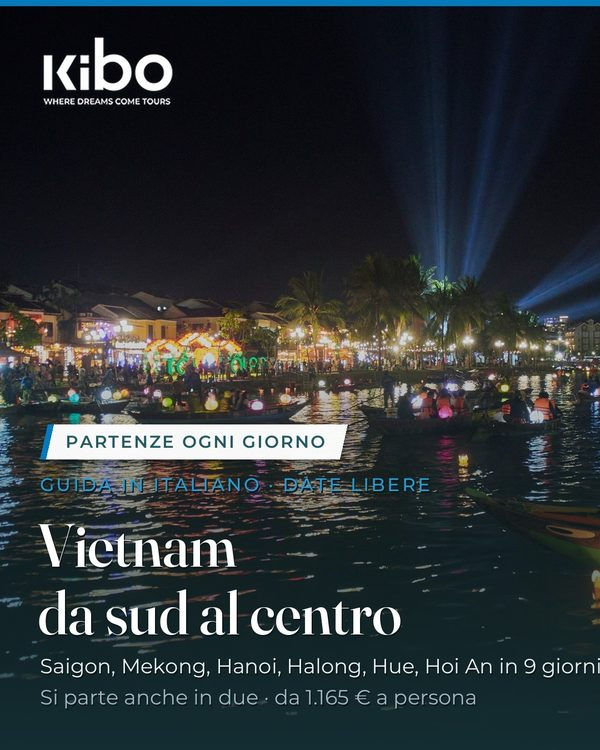
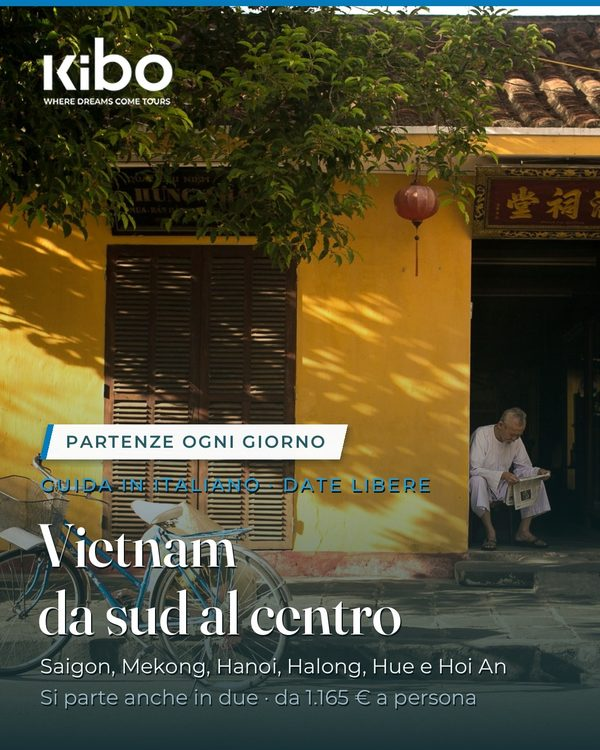
Vietnam sud-centro: hero diurna (casa gialla di Hoi An, Wikimedia Commons CC0) al posto delle lanterne notturne, grafiche social, landing e newsletter del 22/10 rigenerate

diff --git a/scripts/social.py b/scripts/social.py
@@ -201,8 +201,8 @@ VIAGGI = {
         "title": ["Vietnam", "da sud al centro"],
         "info1": "Saigon, Mekong, Hanoi, Halong, Hue e Hoi An",
         "info2": "Si parte anche in due · da 1.165 € a persona",
-        "focus_x": 0.35,
-        "focus_y": 0.5,
+        "focus_x": 0.5,
+        "focus_y": 0.45,
         "ribbon": "PARTENZE OGNI GIORNO",
         "ribbon_style": "evidenza",
         "cta": "",

diff --git a/contenuti/vietnam-sud-centro-2027.social.md b/contenuti/vietnam-sud-centro-2027.social.md
@@ -1,8 +1,8 @@
 # Vietnam da sud al centro — kit social (piano 16 contenuti, n. 24)
 
 > Grafiche: `assets/social/vietnam-sud-centro-2027-post.jpg` (1080×1350) e `-story.jpg` (1080×1920),
-> da generare con `scripts/social.py` dalla hero (le lanterne di Hoi An sul fiume Thu Bon,
-> Wikimedia Commons «Hoi An - HoiAn1441», licenza CC0) dopo l'inserimento della voce `vietnam-sud-centro-2027` nel dizionario `VIAGGI`.
+> da generare con `scripts/social.py` dalla hero (una casa gialla di Hoi An con bicicletta e
+> lanterne, Wikimedia Commons «Tiệm153+xeĐạp&cây», licenza CC0; scelta chiara del 20/10) dopo l'inserimento della voce `vietnam-sud-centro-2027` nel dizionario `VIAGGI`.
 > **Nessuna pubblicazione senza approvazione di Roberto** (tabella `Contenuti Social`,
 > record VNM-2027-SC9-IG-01 e VNM-2027-SC9-FB-01, data prevista venerdì 23/10/2026 10:00,
 > secondo contenuto della newsletter del 22/10).
